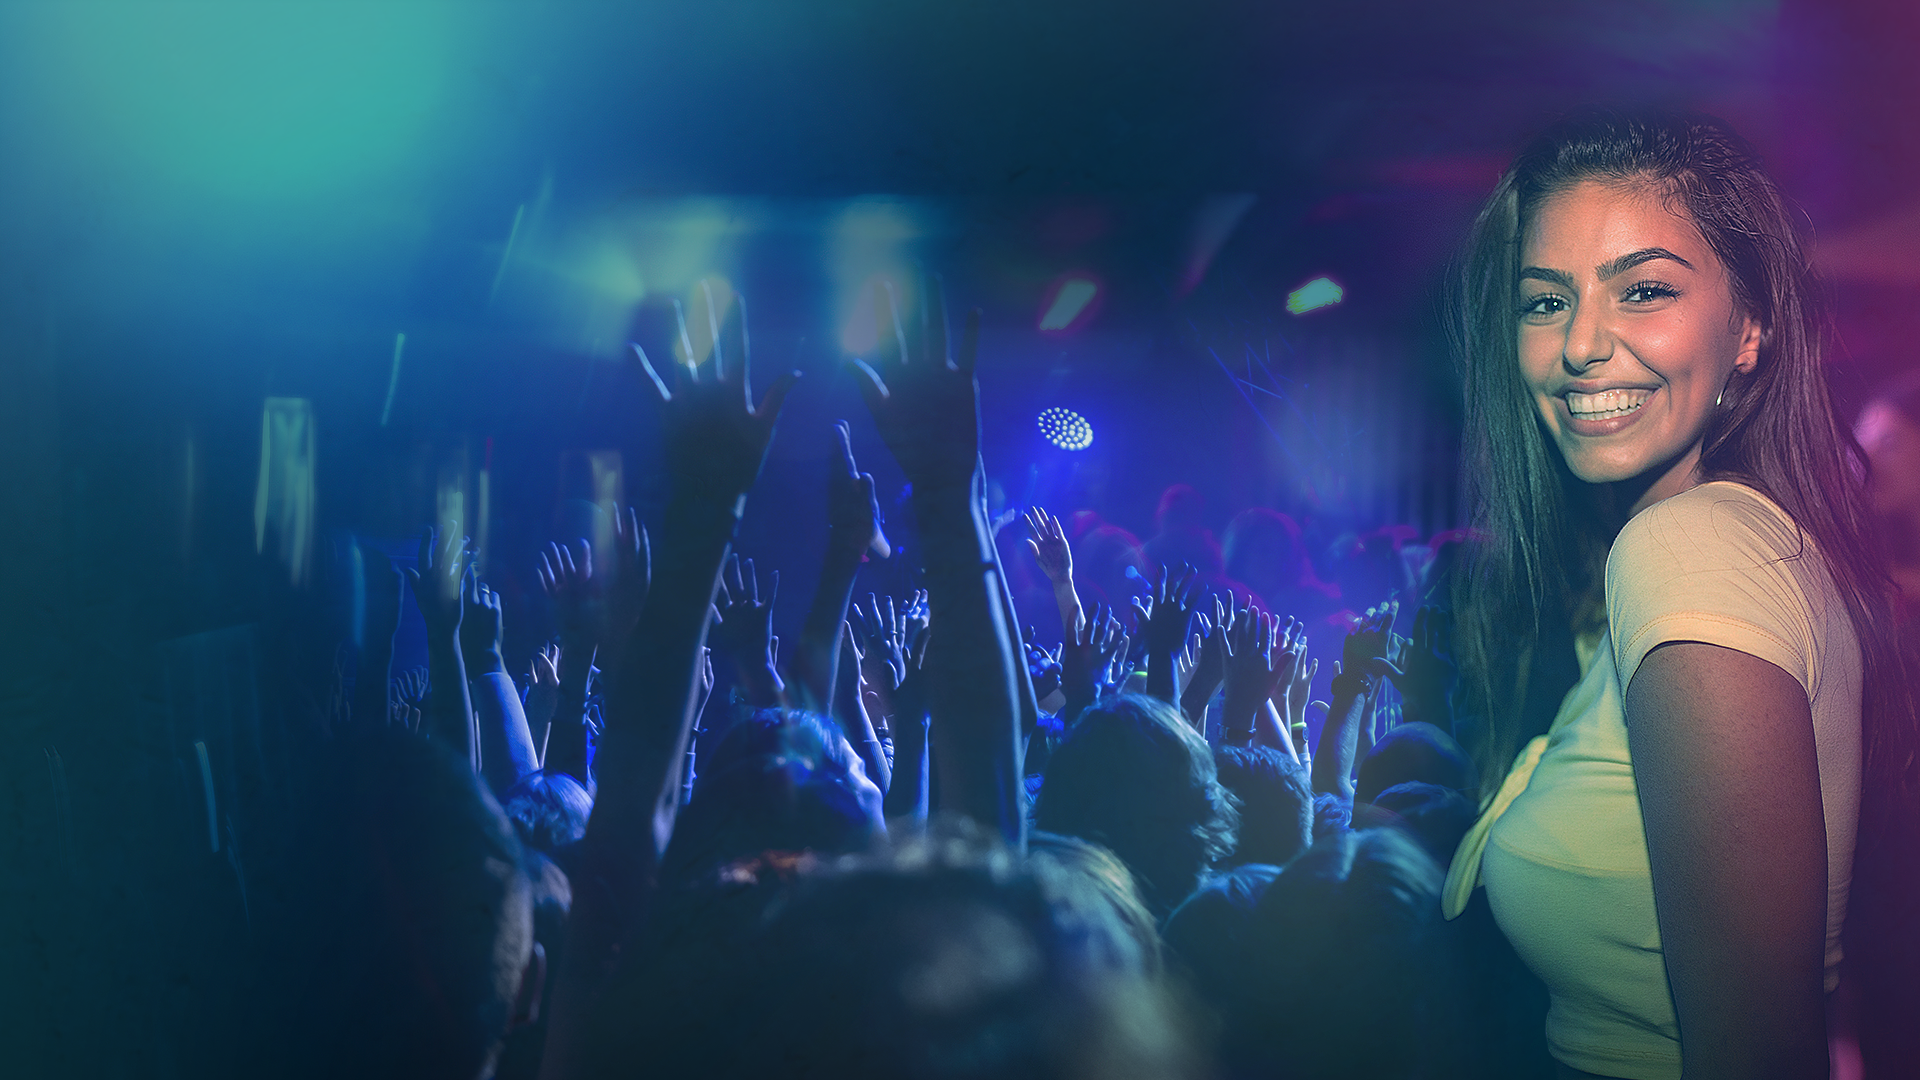
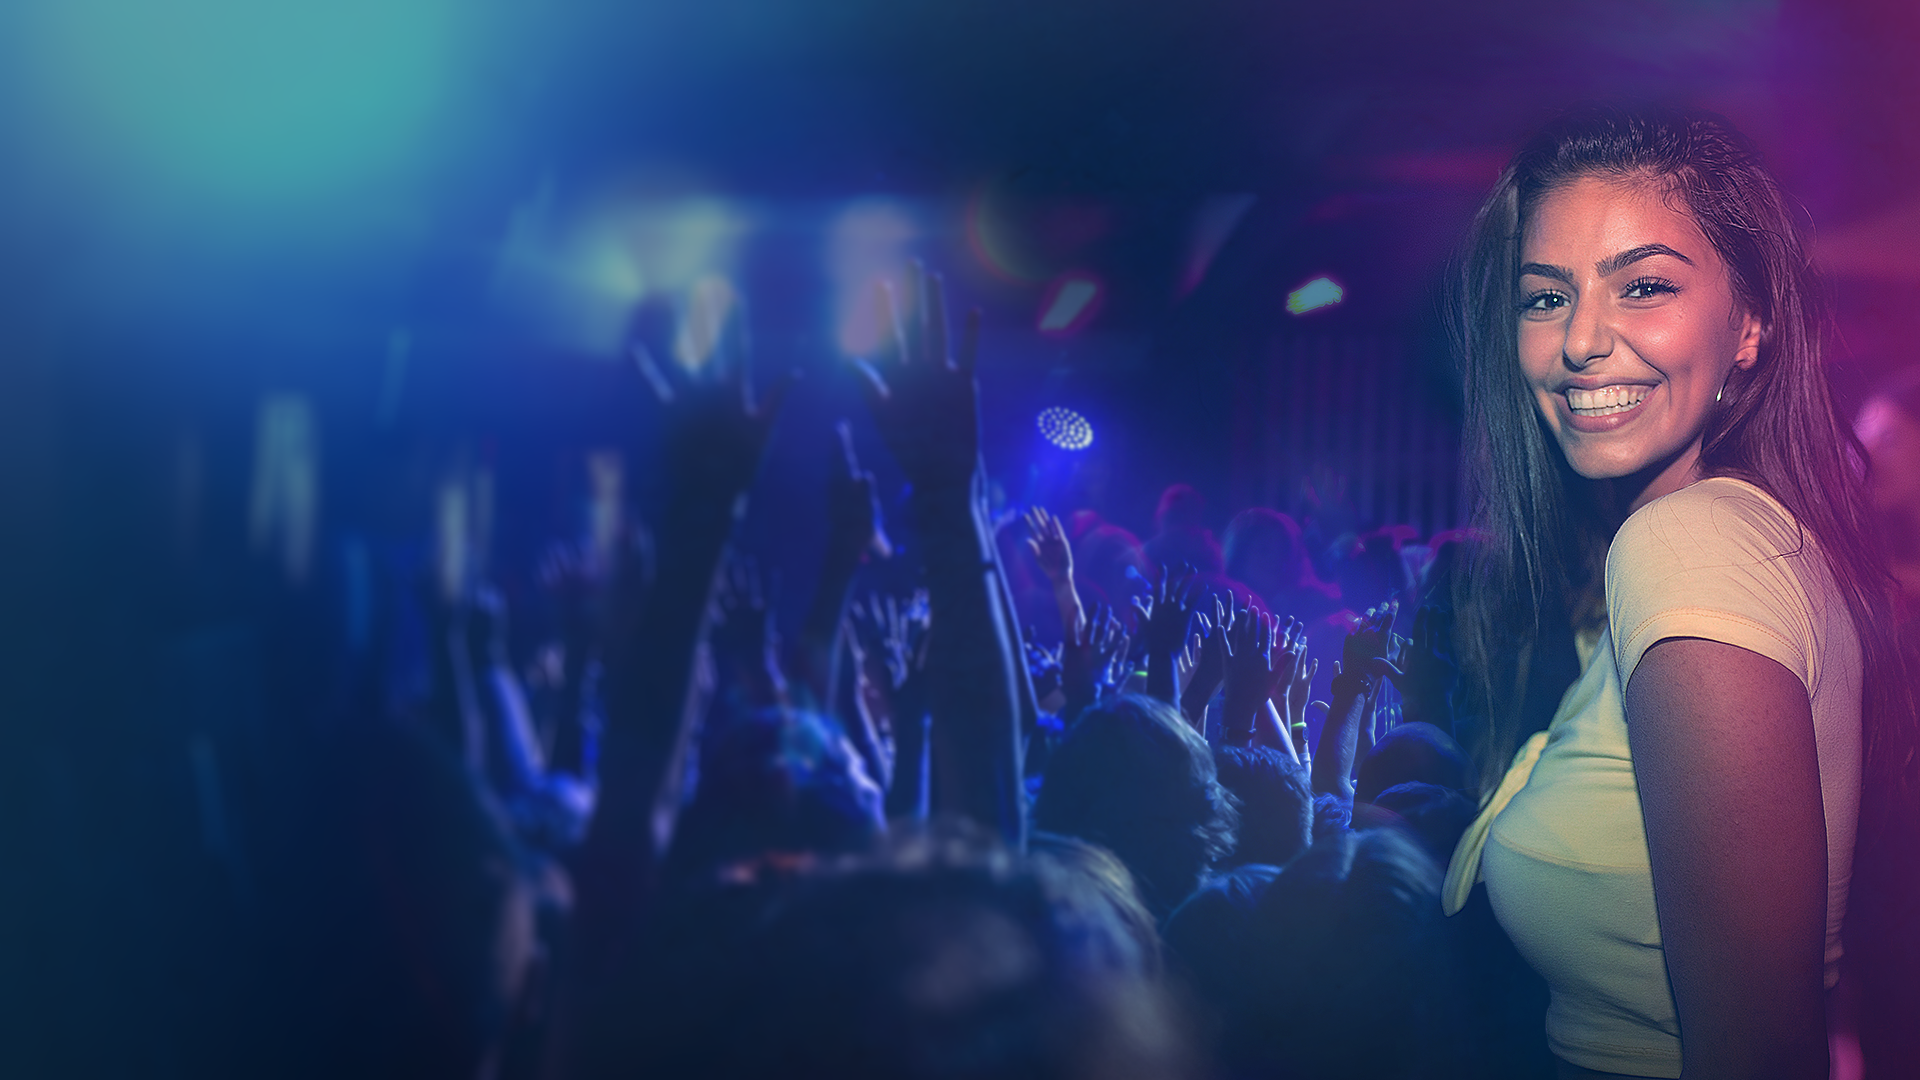
reupload

diff --git a/public/assets/styles/css/style.css b/public/assets/styles/css/style.css
@@ -286,7 +286,7 @@ header {
   background-size: cover;
   background-repeat: no-repeat;
   background-position: right;
-  background-position-x: -290px; }
+  background-position-x: -323px; }
 
 .headerWrapper {
   position: relative; }

diff --git a/public/assets/styles/scss/style.scss b/public/assets/styles/scss/style.scss
@@ -324,7 +324,7 @@ header{
   background-size: cover;
   background-repeat: no-repeat;
   background-position: right;
-  background-position-x: -290px;
+  background-position-x: -323px;
 }
 
 .headerWrapper{
